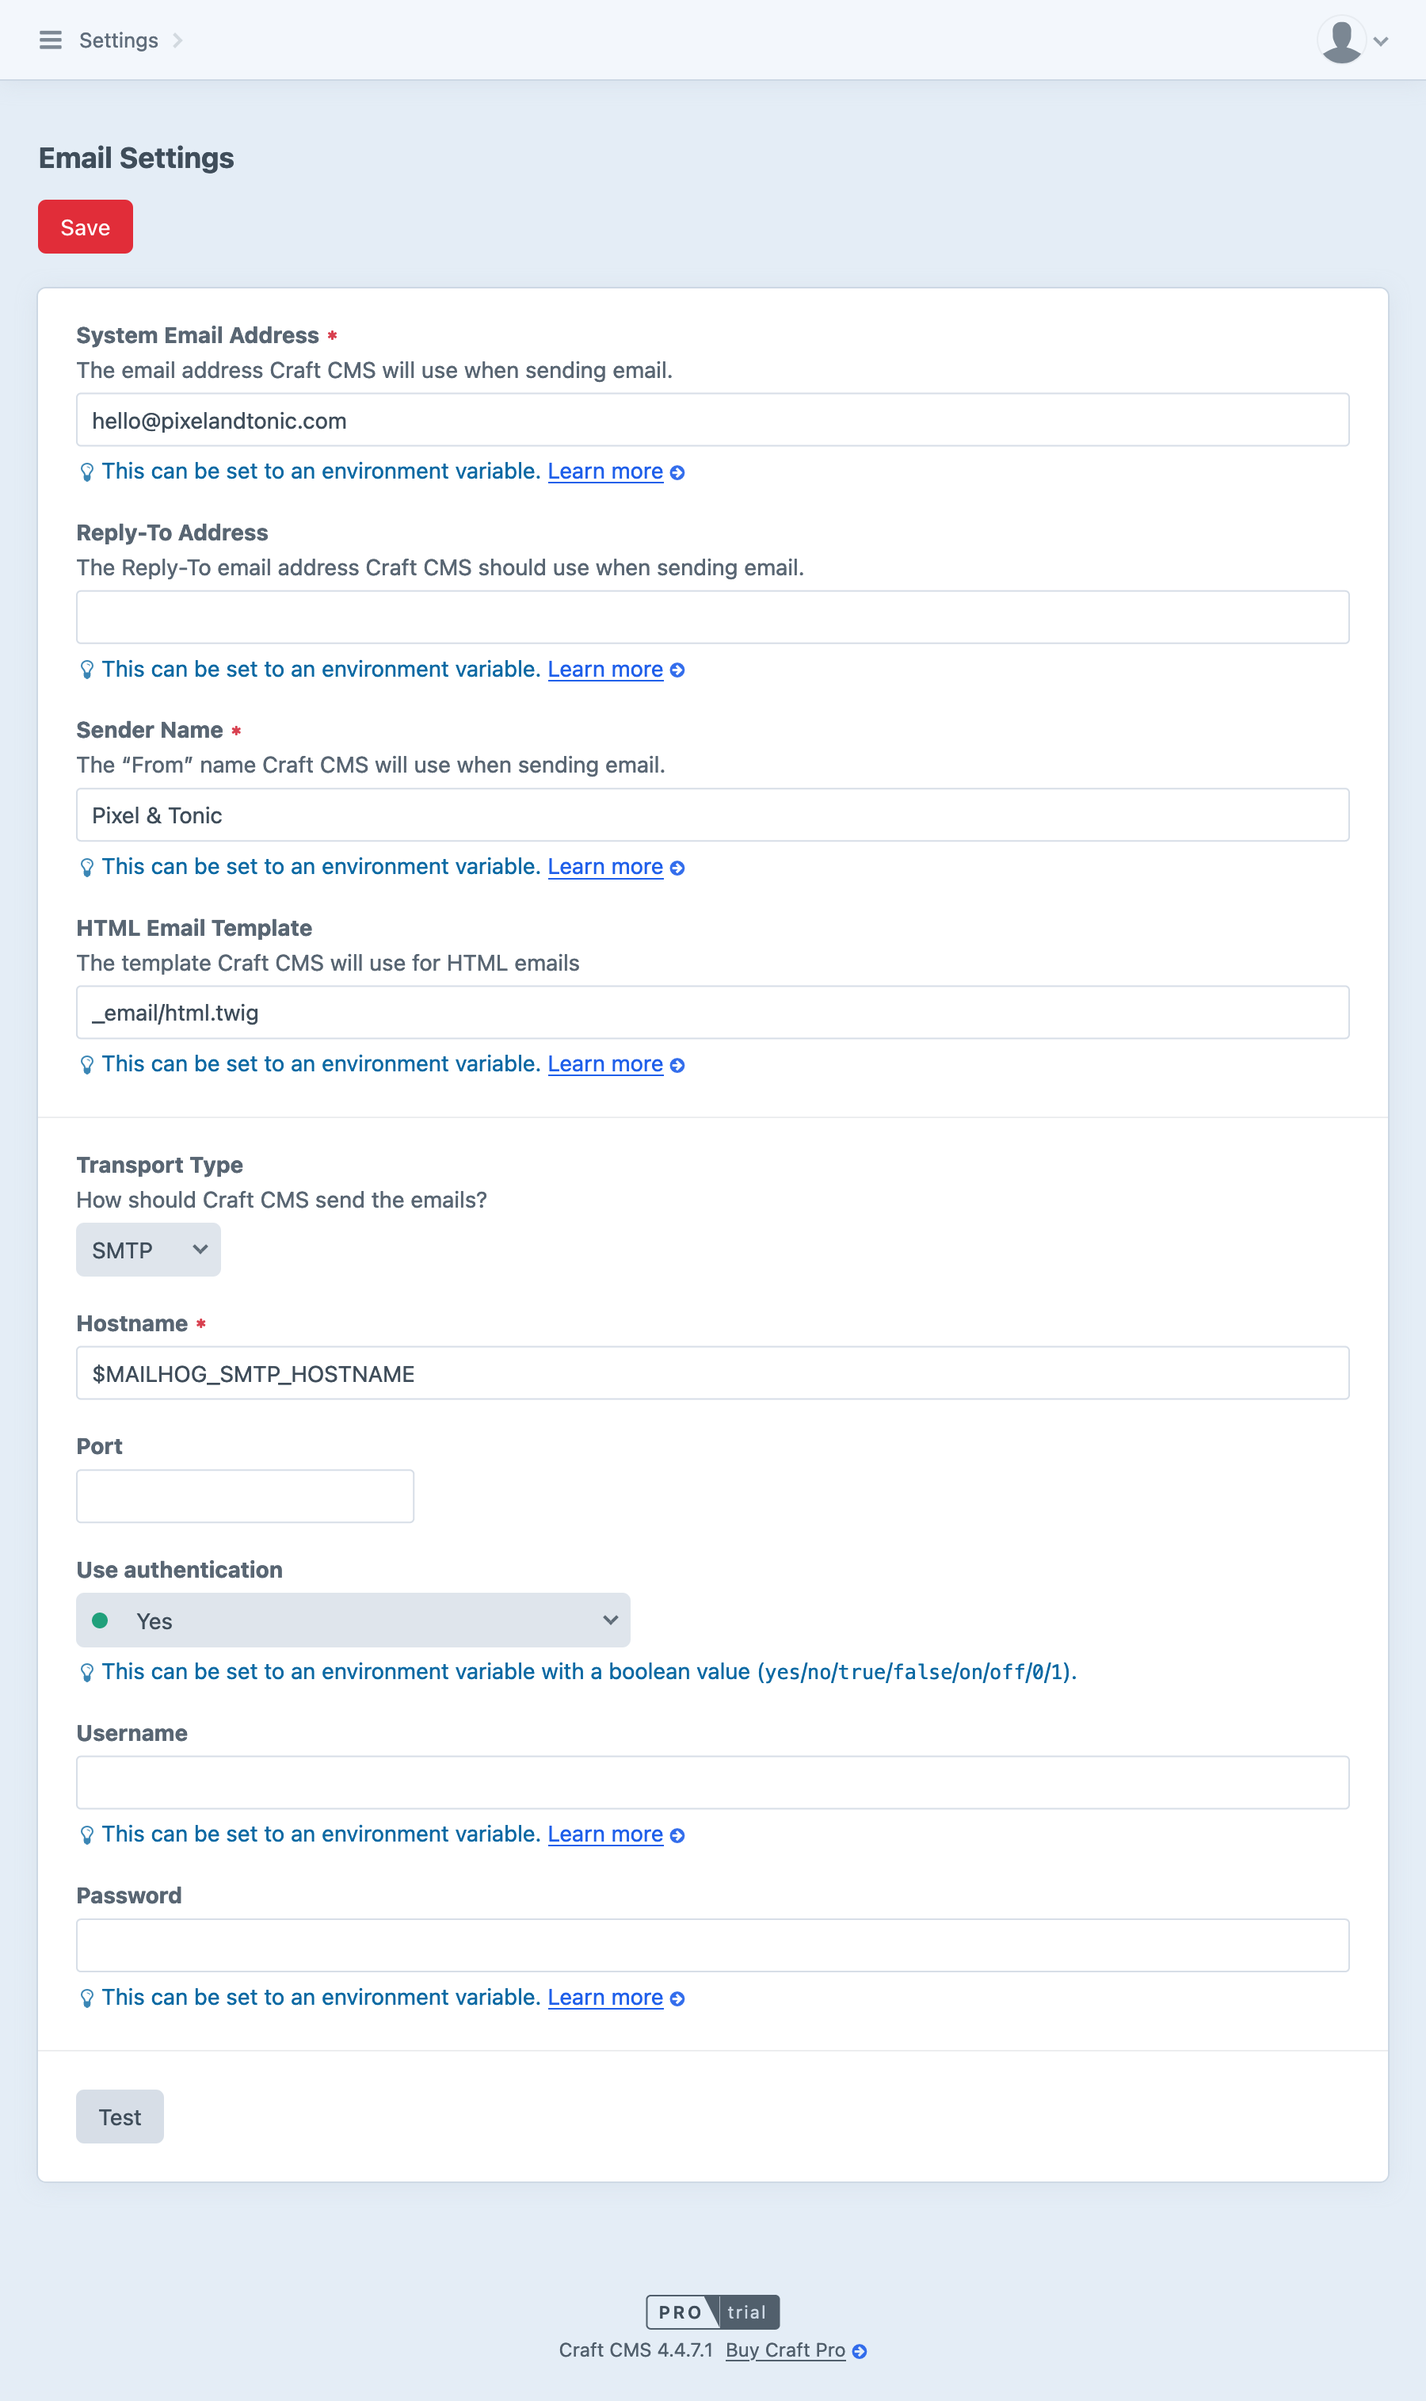
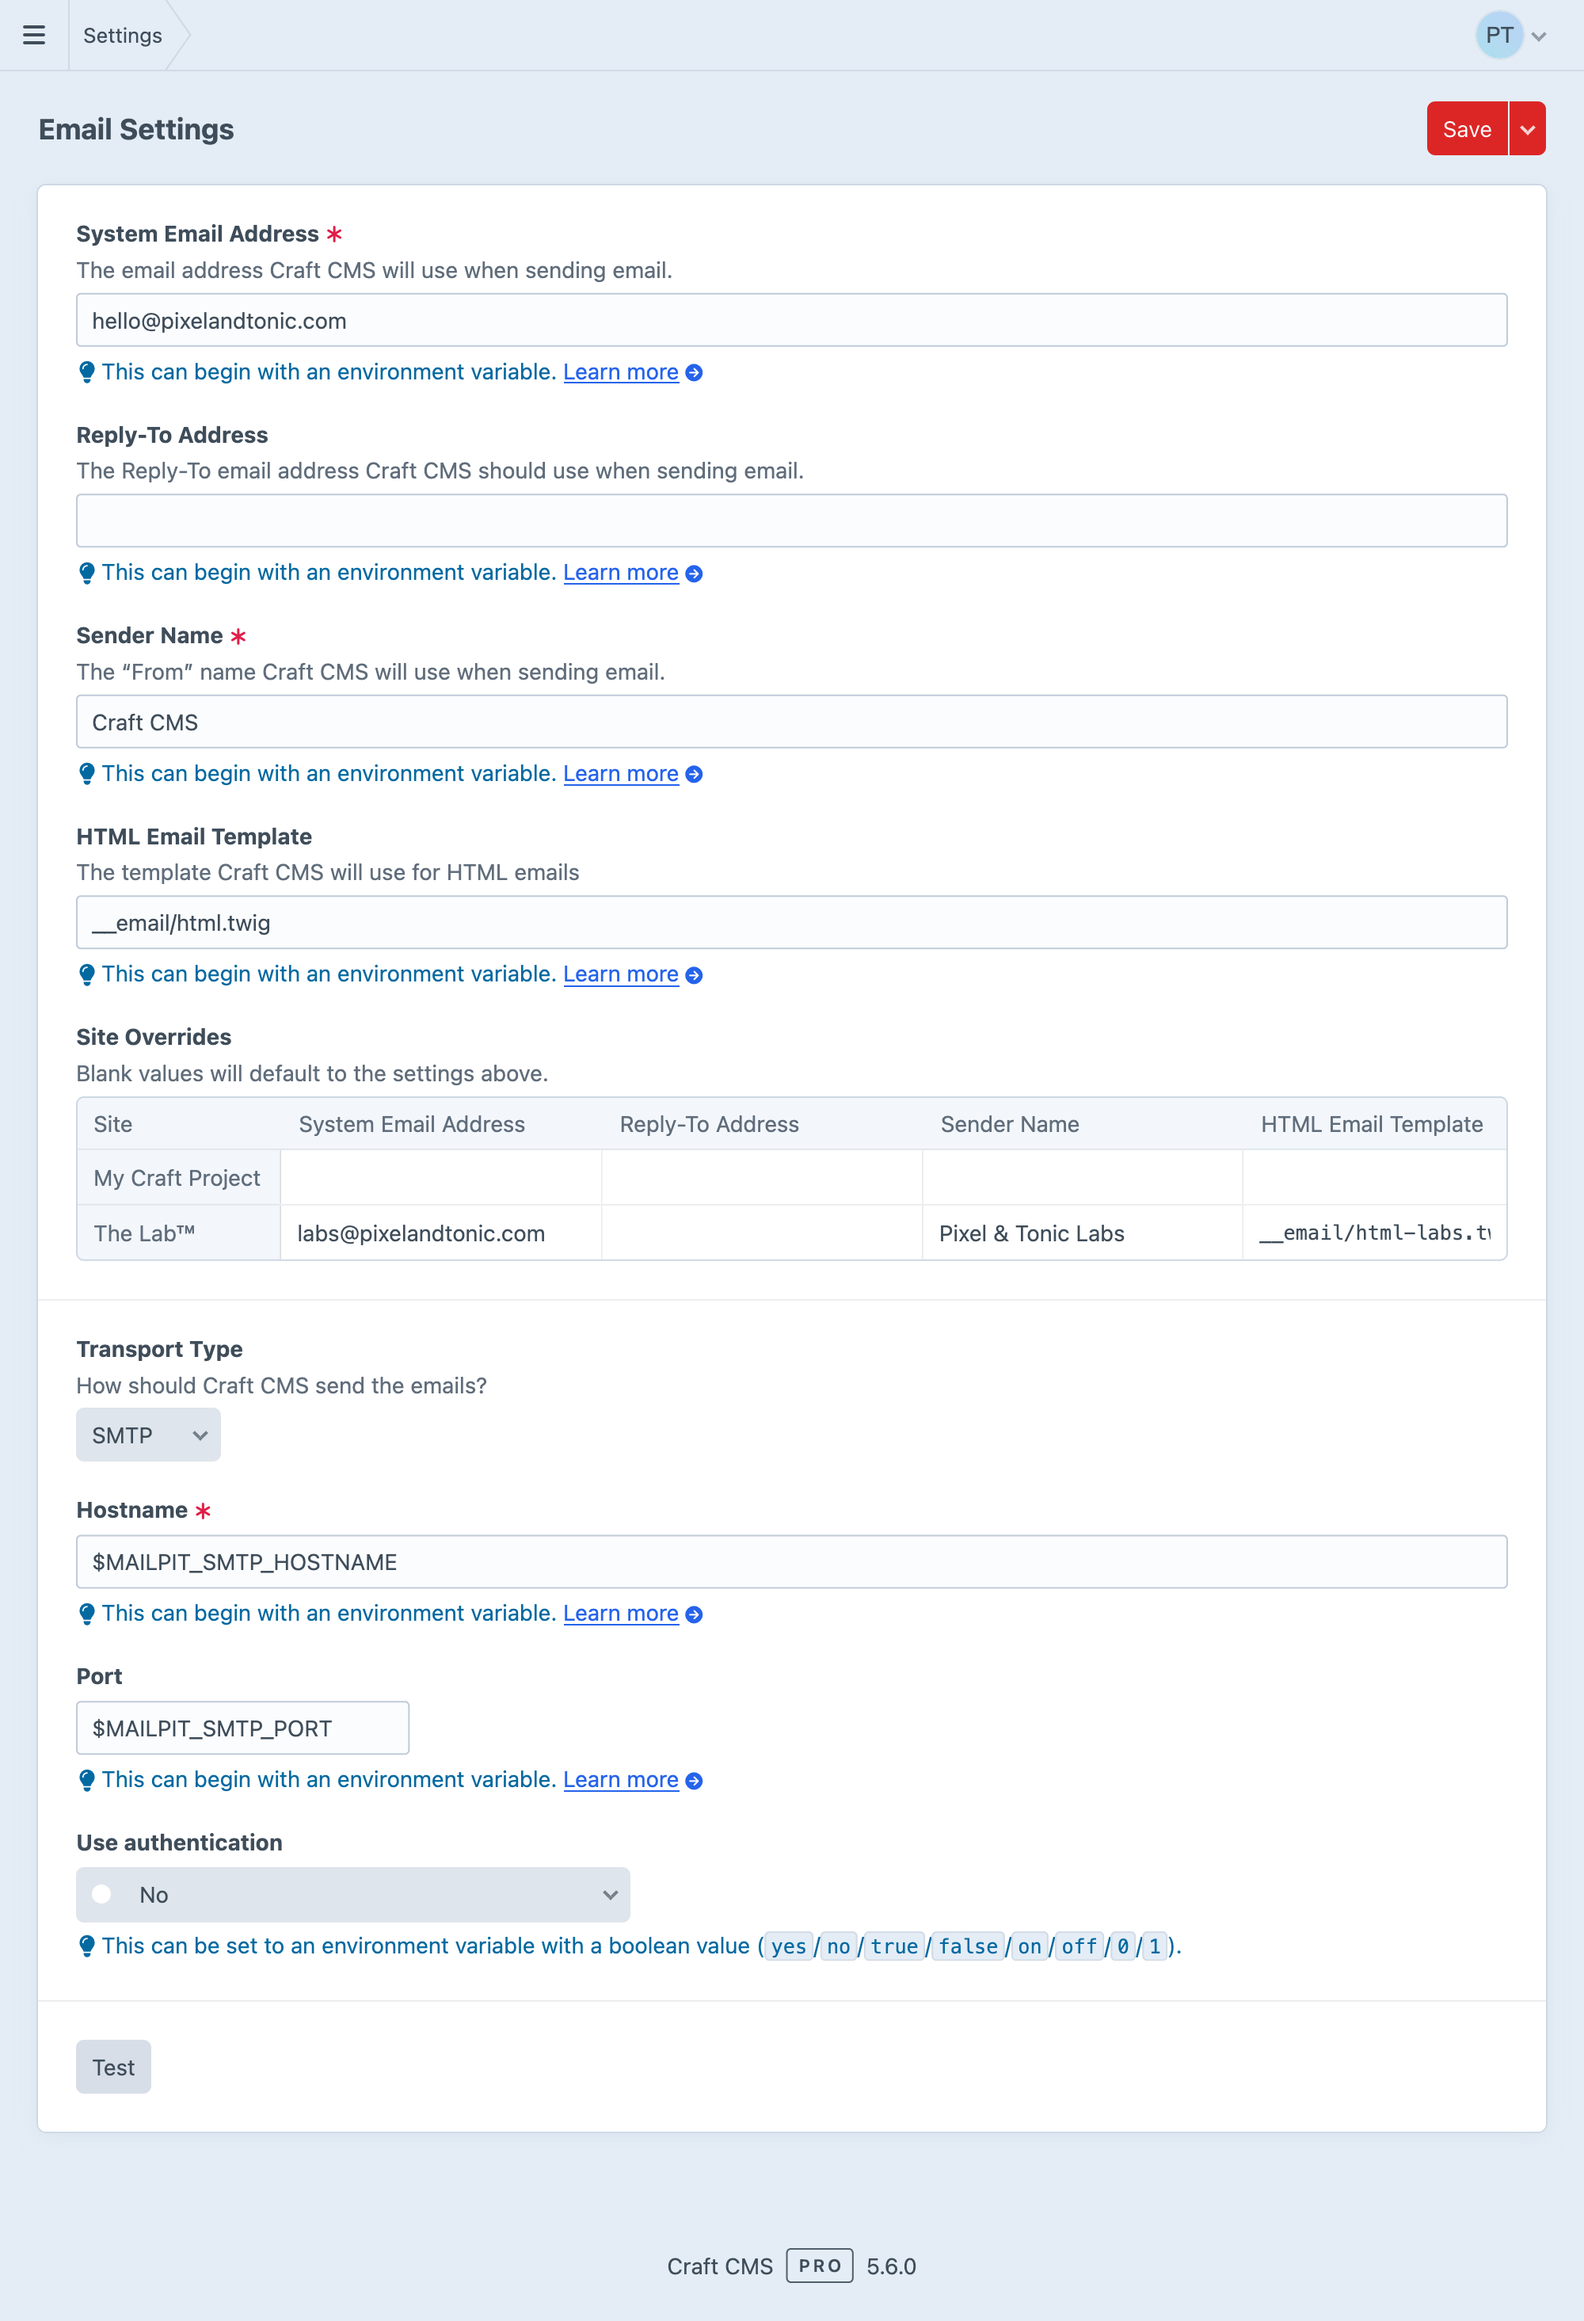
5.6: Site overrides for mailer

diff --git a/docs/5.x/system/mail.md b/docs/5.x/system/mail.md
@@ -6,19 +6,19 @@ Plugins may send email under other circumstances, either by registering a global
 
 ## System Messages <badge type="edition" vertical="middle" text="Pro" title="Craft Pro only" />
 
-You can view and edit the built-in (and plugin-provided) email messages by navigating to **Utilities** &rarr; **System Messages**.
+You can view and edit the built-in (and plugin-provided) email messages by navigating to <Journey path="Utilities, System Messages" />.
 
 <BrowserShot
     url="https://my-craft-project.ddev.site/admin/utilities/system-messages"
     :link="false"
-    caption="Viewing system messages in the utilities section of the control panel.  Customizing system messages is limited to Craft Pro.">
+    caption="Viewing system messages in the utilities section of the control panel. Customizing system messages is limited to Craft Pro.">
 <img src="../images/system-messages.png" alt="System messages">
 </BrowserShot>
 
 Click on any message to open a modal and edit its subject and body.
 
 ::: tip
-Running a multi-site installation? You can customize system messages on a per-site basis using the site selection menu in the upper-right corner of the message modal.
+Running a [multi-site](sites.md) installation? You can customize system messages (and [mail settings](#settings)) on a per-site basis using the site selection menu in the upper-right corner of the message editor modal.
 :::
 
 ### Twig
@@ -120,8 +120,9 @@ Craft uses a single configuration for its [mailer component](craft5:craft\mail\M
     :poi="{
         systemAddress: [28, 14],
         replyToAddress: [28, 22],
-        htmlTemplate: [28, 38.5],
-        transportAdapter: [20, 52],
+        htmlTemplate: [28, 39.5],
+        siteOverrides: [48, 52],
+        transportAdapter: [18, 62],
     }"
     caption="Email settings screen in the control panel.">
 <img src="../images/mail-settings.png" alt="Craft email settings">
@@ -177,7 +178,13 @@ This template is handled a bit differently than the normal Twig “layout” sch
 
 Otherwise, this is a regular Twig environment, so all the filters, functions, global variables, tags, and tests are available to you—including element queries!
 
-### Transport Adapters <Poi target="mail-settings" id="transportAdapter" label="4" />
+### Site Overrides <Since ver="5.6.0" feature="Site-specific overrides for email settings" /> <Poi target="mail-settings" id="siteOverrides" label="4" />
+
+Multi-site projects provide a means to override the **System Email Address**, **Reply-To Address**, **Sender Name**, and **HTML Email Template** on a site-by-site basis. Like the fields above, overrides accept environment variables that are resolved at runtime. When a value is not populated for a site, the global setting is used.
+
+Craft uses site-specific settings when sending email to users with an [affiliated site](user-management.md#affiliated-site).
+
+### Transport Adapters <Poi target="mail-settings" id="transportAdapter" label="5" />
 
 Three adapters are provided with Craft, with more installable from the [Plugin Store](https://plugins.craftcms.com/categories/mailer-adapters?craft4). You can switch adapters at any time—each adapter exposes a [Transport](https://symfony.com/doc/current/mailer.html#using-a-3rd-party-transport) class that conforms to a consistent interface, allowing Craft and plugins to send email without worrying about the underlying implementation or service.
 
